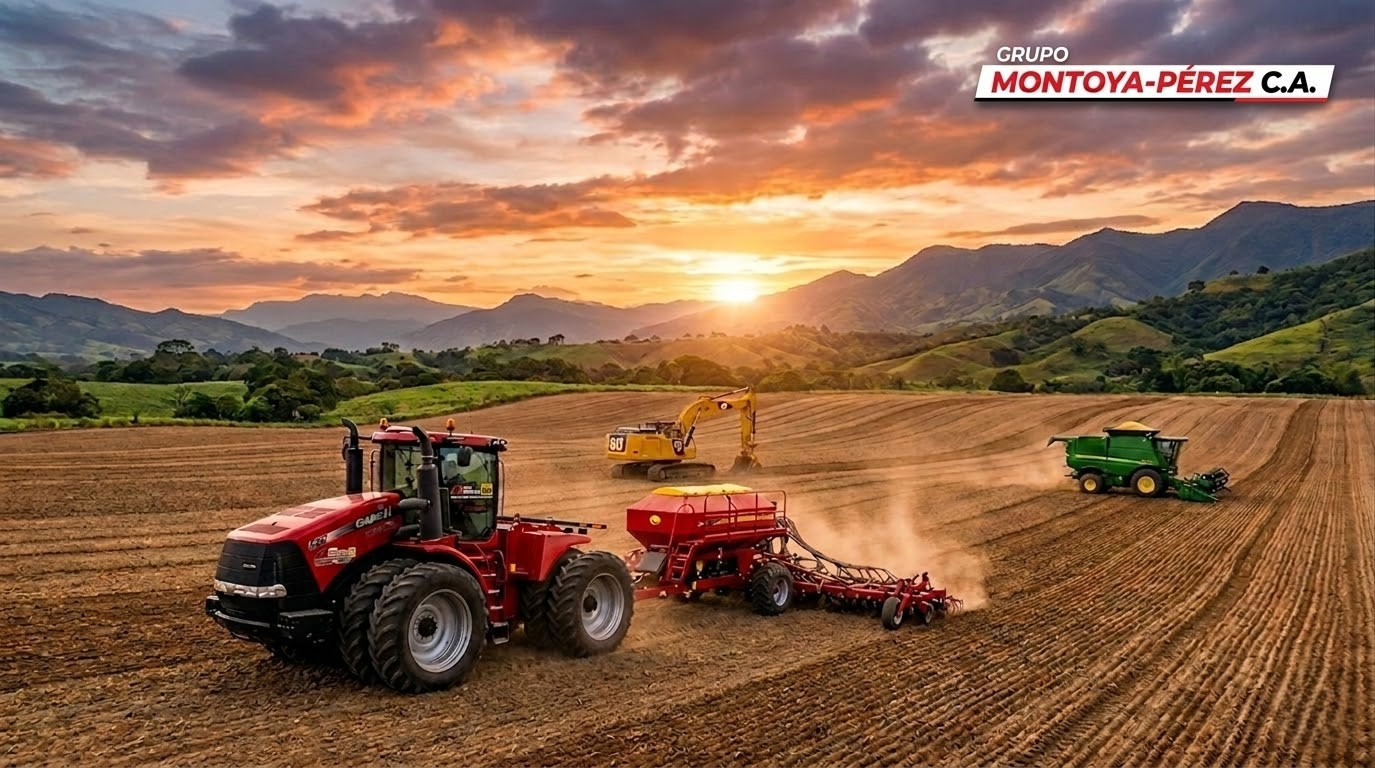
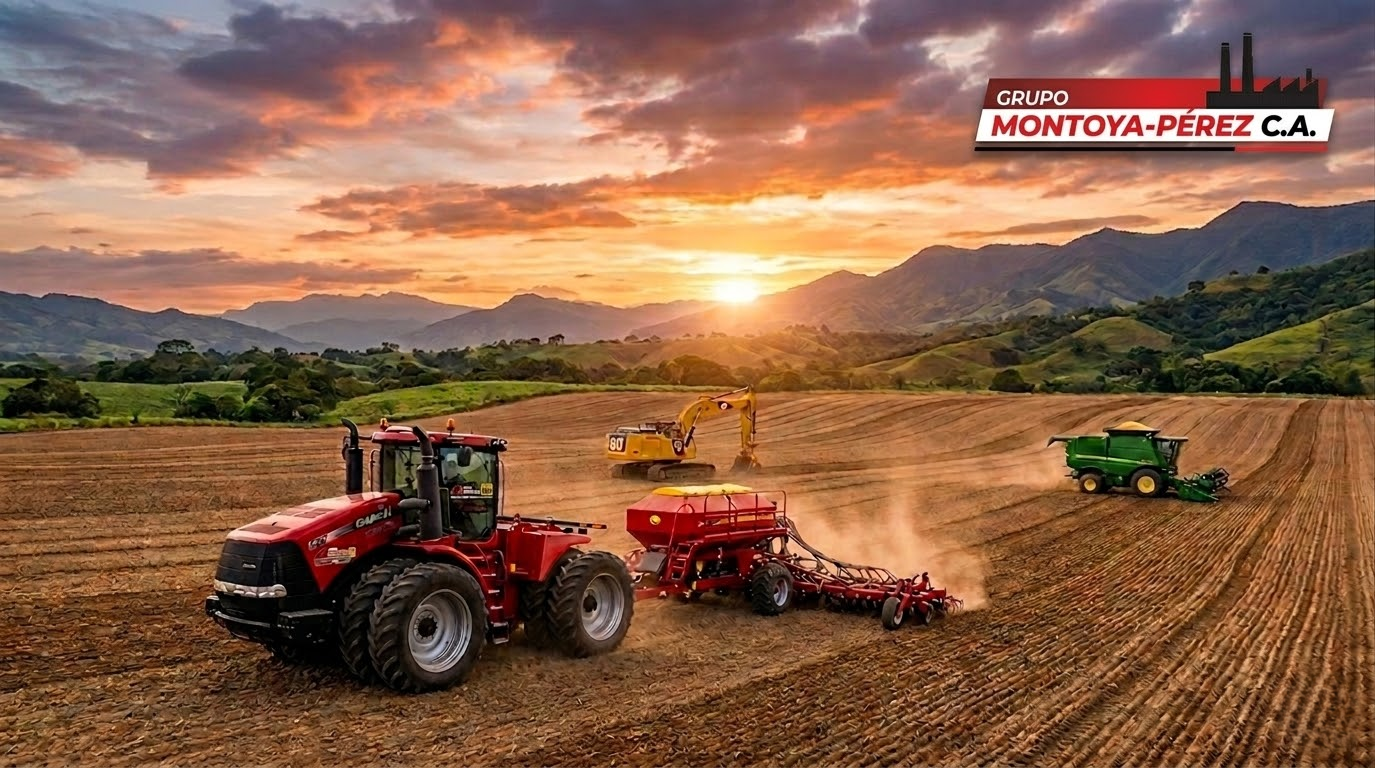
feat: añadir página de construcción y unificar menú de navegación en todas las vistas

Changed region(s): [[0.7025, 0.0312, 0.9775, 0.2188], [0.9164, 0.875, 1.0, 1.0]]

diff --git a/templates/construccion.html b/templates/construccion.html
@@ -1,7 +1,7 @@
 <!DOCTYPE HTML>
 <html lang="es">
     <head>
-        <title>Sector Agrícola - Grupo Montoya-Pérez</title>
+        <title>Sector Construcción - Grupo Montoya-Pérez</title>
         <meta charset="utf-8" />
         <meta name="viewport" content="width=device-width, initial-scale=1, user-scalable=no" />
         <link rel="icon" type="image/png" href="{{ url_for('static', path='assets/css/images/favicon.png') }}" />
@@ -26,8 +26,8 @@
 
             /* Hero Section */
             #hero {
-                background-image: url("{{ url_for('static', path='images/agricola/hero-agricola.png') }}");
-                background-size: 100% 100%;
+                background-image: url("{{ url_for('static', path='images/construccion/sector-construccion.png') }}");
+                background-size: cover;
                 background-position: center;
                 background-attachment: fixed;
                 height: 100vh;
@@ -211,51 +211,52 @@
             <!-- Hero Section -->
             <section id="hero">
                 <div class="inner">
-                    <h1>Sector Agrícola</h1>
-                    <p>EL RESPALDO QUE EL CAMPO NECESITA PARA NUNCA DETENERSE.</p>
+                    <h1>Sector Construcción</h1>
+                    <p>MÁS QUE MAQUINARIA, SOMOS EL SOPORTE QUE MUEVE TUS PROYECTOS.</p>
                 </div>
             </section>
 
             <!-- Sección Cimiento Logístico -->
             <section id="cimiento">
                 <div class="texto">
-                    <h2>El Cimiento de la Producción Agrícola</h2>
-                    <p>Una empresa de servicios de maquinaria pesada constituye el cimiento logístico del sector agrícola, donde la maquinaria es la herramienta de trabajo diario del sector, vital para la seguridad alimentaria.</p>
+                    <h2>La Columna Integral en Maquinaria Pesada</h2>
+                    <p>Grupo Montoya-Pérez C.A. es la columna integral en maquinaria pesada para el sector construcción, el cual es el motor clave para el progreso de un país.</p>
                 </div>
                 <div class="imagen">
-                    <img src="{{ url_for('static', path='images/agricola/adecuacion-tierras.png') }}" alt="Adecuación de Tierras" />
+                    <!-- He colocado una imagen de muestra para la sección, idealmente suba una imagen de obra aquí -->
+                    <img src="{{ url_for('static', path='images/construccion/sector-construccion.png') }}" alt="Maquinaria en Obra de Construcción" />
                 </div>
             </section>
 
             <!-- Sección Compromiso Montoya-Pérez -->
             <section id="compromiso">
-                <h2>Garantizamos la Continuidad en el Campo</h2>
-                <p>En este entorno, Grupo Montoya-Pérez C.A. garantiza que las labores de Adecuación de Tierras no se detengan, asegurando que la inversión del agricultor se traduzca en una producción eficiente, al ofrecer:</p>
+                <h2>Precisión y Continuidad en la Construcción</h2>
+                <p>Nosotros en Grupo Montoya-Pérez C.A. sabemos que la construcción exige precisión y continuidad. Contar con un aliado que provea no solo la venta de equipos, sino también un respaldo técnico preventivo y respuestas inmediatas, es crucial para evitar costosos retrasos en las obras.</p>
                 <div class="cards">
                     <div class="card">
-                        <h3>Equipos de Primera Calidad</h3>
-                        <p>Maquinaria robusta y confiable para todas las necesidades del campo.</p>
+                        <h3>Venta de Equipos</h3>
+                        <p>Maquinaria de alto rendimiento para satisfacer las demandas de cualquier terreno o proyecto estructural.</p>
                     </div>
                     <div class="card">
-                        <h3>Mantenimiento Preventivo</h3>
-                        <p>Servicios regulares para evitar fallos y maximizar la productividad.</p>
+                        <h3>Respaldo Técnico Preventivo</h3>
+                        <p>Planes de mantenimiento diseñados para proteger su inversión y evitar averías imprevistas.</p>
                     </div>
                     <div class="card">
-                        <h3>Repuestos Originales</h3>
-                        <p>Acceso a piezas genuinas para mantener la calidad y durabilidad.</p>
+                        <h3>Respuestas Inmediatas</h3>
+                        <p>Asistencia ágil y soluciones en campo para asegurar la continuidad y los plazos de su obra.</p>
                     </div>
                 </div>
             </section>
 
             <!-- Sección Beneficios y Rendimiento -->
             <section id="beneficios">
-                <h2>Minimice Riesgos, Maximice Rendimiento</h2>
-                <p>Se minimizan los riesgos de paradas críticas en plena temporada, permitiendo que la infraestructura del campo sea el motor que sostiene el abastecimiento nacional con máxima durabilidad y rendimiento.</p>
+                <h2>Protegiendo la Inversión de las Constructoras</h2>
+                <p>Esta sinergia garantiza que la maquinaria opere a su máximo rendimiento, protegiendo la inversión de las constructoras y asegurando la culminación exitosa de los proyectos.</p>
             </section>
 
             <!-- Llamado a la Acción -->
             <section id="cta">
-                <h3>¿Necesita maquinaria confiable para su próximo ciclo?</h3>
+                <h3>¿Necesita maquinaria confiable para su próxima obra?</h3>
                 <a href="/contacto">Solicitar Cotización</a>
             </section>
 

diff --git a/templates/index.html b/templates/index.html
@@ -29,9 +29,9 @@
                 <ul class="links">
                     <li><a href="/">Inicio</a></li>
                     <li><a href="#one">Petrolera</a></li>
-                    <li><a href="#two">Agrícola</a></li>
+                    <li><a href="/agricola">Agrícola</a></li>
                     <li><a href="#four">Infraestructura y Energía</a></li>
-                    <li><a href="#five">Construcción</a></li>
+                    <li><a href="/construccion">Construcción</a></li>
                     <li><a href="#footer">Contacto</a></li>
                 </ul>
                 <a href="#" class="close">Cerrar</a>
@@ -98,11 +98,11 @@
 
             <section id="five" class="wrapper spotlight style1">
                 <div class="inner">
-                    <a href="{{ url_for('static', path='images/construccion/sector-construccion.png') }}" class="image" target="_blank" rel="noopener noreferrer"><img
+                    <a href="/construccion" class="image"><img
                             src="{{ url_for('static', path='images/montoyaperez/sector-construccion.png') }}"
                             alt="Sector Construcción" /></a>
                     <div class="content">
-                        <h2 class="major">Sector Construcción</h2>
+                        <h2 class="major"><a href="/construccion" style="color: inherit; text-decoration: none;">Sector Construcción</a></h2>
                         <p>Soluciones integrales para obra civil e infraestructuras industriales.</p>
                     </div>
                 </div>

diff --git a/templates/contacto.html b/templates/contacto.html
@@ -31,7 +31,11 @@
                     <h2>Menú</h2>
                     <ul class="links">
                         <li><a href="/">Inicio</a></li>
-                        <li><a href="/contacto">Contacto</a></li>
+                        <li><a href="/#one">Petrolera</a></li>
+                        <li><a href="/agricola">Agrícola</a></li>
+                        <li><a href="/#four">Infraestructura y Energía</a></li>
+                        <li><a href="/construccion">Construcción</a></li>
+                        <li><a href="/#footer">Contacto</a></li>
                     </ul>
                     <a href="#" class="close">Cerrar</a>
                 </div>

diff --git a/static/assets/css/main.css b/static/assets/css/main.css
@@ -3463,7 +3463,7 @@ button:disabled,
 	-ms-transition: opacity 0.35s ease, -ms-transform 0.35s ease;
 	transition: opacity 0.35s ease, transform 0.35s ease;
 	-webkit-overflow-scrolling: touch;
-	background: #000;
+	background: rgba(0, 0, 0, 0.85);
 	border-radius: 5px;
 	display: block;
 	max-width: 100%;

diff --git a/app/main.py b/app/main.py
@@ -44,3 +44,11 @@ async def agricola(request: Request):
         "agricola.html",
         {"request": request, "phone": CONTACTO["telefono"], "email": CONTACTO["email"]},
     )
+
+# Ruta del sector construcción
+@app.get("/construccion")
+async def construccion(request: Request):
+    return templates.TemplateResponse(
+        "construccion.html",
+        {"request": request, "phone": CONTACTO["telefono"], "email": CONTACTO["email"]},
+    )
